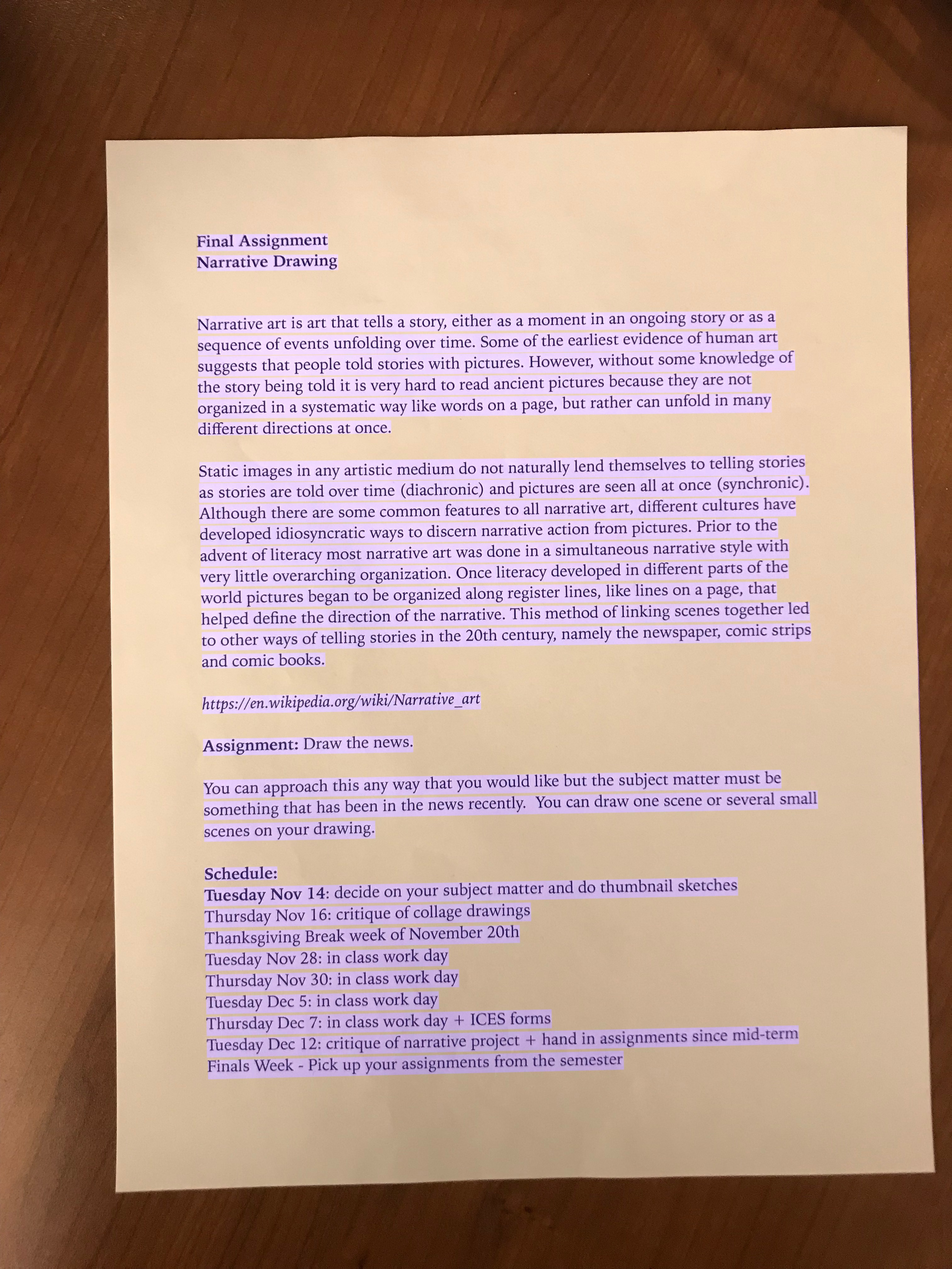
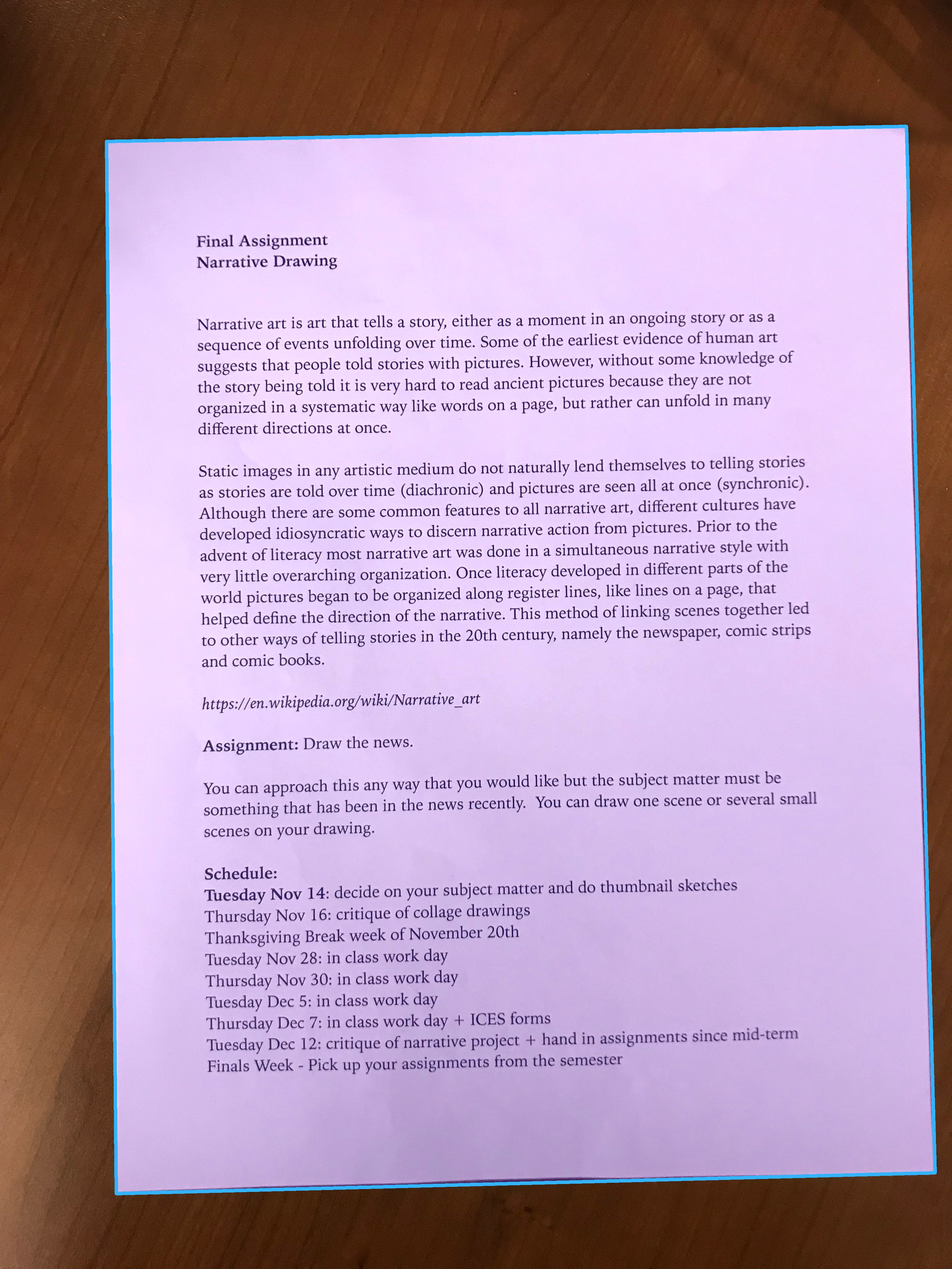
Display contour image

diff --git a/main.py b/main.py
@@ -34,13 +34,22 @@ if __name__ == '__main__':
     cv2.waitKey(0)
     cv2.destroyWindow('Image')
 
-    pts_src = [(p[0, 0], p[0, 1]) for p in get_rectangle(im_src)]
+    pts_src = get_rectangle(im_src)
 
-    print(pts_src)
+    img = cv2.drawContours(
+        im_src, [pts_src], -1, (255, 180, 50), thickness=10)
+
+    im_resized, _ = scale_image_for_display(img)
+    cv2.imshow('Image', im_resized)
+    cv2.moveWindow('Image', 30, 0)
+    cv2.waitKey(0)
+    cv2.destroyWindow('Image')
+
+    pts_src = [(p[0, 0], p[0, 1]) for p in pts_src]
 
     logger.info('transforming im')
-    im_out, im_binary, h = document_transformation(im_src, pts_src, w_h = 1.3)
-    cv2.imwrite('result/transofrm.jpg', im_binary);
+    im_out, im_binary, h = document_transformation(im_src, pts_src)
+    cv2.imwrite('result/transofrm.jpg', im_binary)
 
     # im_resized, _ = scale_image_for_display(im_binary)
     # cv2.imshow('Image', im_resized)
@@ -73,8 +82,10 @@ if __name__ == '__main__':
         print('translating', box.content)
         translation = translator.translate(box.content)
 
-        print(box.position, floor((box.position[1][1] - box.position[0][1]) * alpha))
-        font = ImageFont.truetype('NotoSansCJKsc-Medium.otf', floor((box.position[1][1] - box.position[0][1]) * alpha))
+        print(box.position, floor(
+            (box.position[1][1] - box.position[0][1]) * alpha))
+        font = ImageFont.truetype(
+            'NotoSansCJKsc-Medium.otf', floor((box.position[1][1] - box.position[0][1]) * alpha))
         draw.text(box.position[0], translation, font=font, fill='white')
     del draw
     im_font = cv2.cvtColor(np.array(im_font), cv2.COLOR_RGB2BGR)
